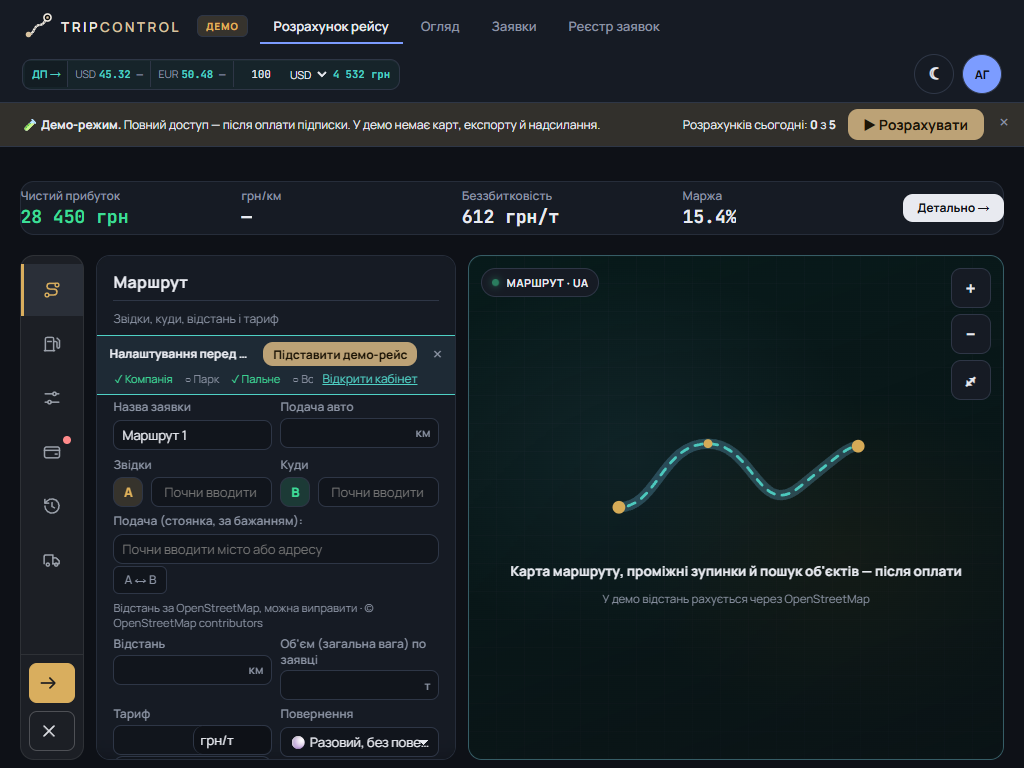
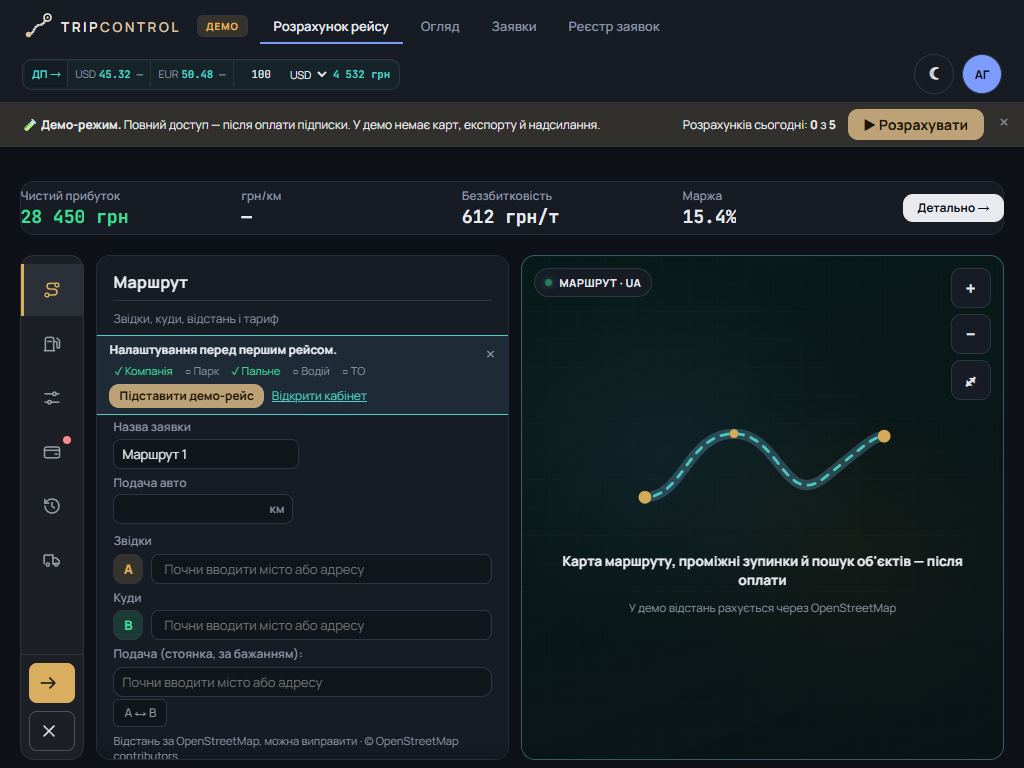
Розрахунок рейсу: гнучка панель, підсумки в 2 рядки, короткі вкладки, світла заглушка карти
Панель секції minmax(380px, 34%) до 520px (≥1100) і minmax(340px, 42%) (901–1099); Звідки/Куди/Подача на всю ширину; банер переноситься.
Підсумки меню — до 2 рядків, повний текст у title, скорочені формулювання. Мобільні вкладки: короткі підписи, fade і автоскрол.
Заглушка карти у світлій темі — світла поверхня. Застарілий тест двоколонкового лейауту оновлено, мертве CSS-правило прибрано.

diff --git a/index.html b/index.html
@@ -4062,10 +4062,9 @@
         body.layout-studio:not([data-studio-view="calc"]) #tc-kpi-bar,
         body.layout-studio[data-calc-detail="1"] #tc-kpi-bar { display: none; }
 
-        /* Дві колонки: панель minmax(380px, 40%) + мапа на решту, мапа sticky під смугою */
+        /* Колонки «Розрахунку рейсу»: ліве меню | панель | мапа sticky під смугою (ширини — у блоці «Ліве меню» нижче) */
         body.layout-studio[data-studio-view="calc"]:not([data-calc-detail="1"]) #studio-columns {
-            display: grid; grid-template-columns: minmax(380px, 40%) minmax(0, 1fr);
-            gap: clamp(12px, 1.2vw, 20px); align-items: start; padding-bottom: var(--tc-pad);
+            display: grid; gap: clamp(12px, 1.2vw, 20px); align-items: start; padding-bottom: var(--tc-pad);
         }
         body.layout-studio[data-studio-view="calc"]:not([data-calc-detail="1"]) #studio-left { min-width: 0; }
         body.layout-studio[data-studio-view="calc"]:not([data-calc-detail="1"]) #studio-right { align-self: stretch; display: block !important; min-width: 0; }
@@ -4523,7 +4522,7 @@
         body.layout-studio #tc-op .tc-acc-body { padding-top: 12px; }
 
         /* ===== Ліве меню «Розрахунку рейсу» (assets/calc-menu.js) =====
-           ≥1100px: меню 240 | панель 380 | мапа; 901–1099px: іконна рейка 64 | панель 360 | мапа; ≤900px: смуга-вкладки, панель, мапа 320px, липка нижня панель дій.
+           ≥1100px: меню 240 | панель minmax(380px, 34%) до 520px | мапа; 901–1099px: іконна рейка 64 | панель minmax(340px, 42%) | мапа; ≤900px: смуга-вкладки, панель, мапа 320px, липка нижня панель дій.
            Кольори лише з токенів тем (--sidebar-*, --surface, --negative-on-dark); поля й логіка розрахунку ті самі. */
         #tc-calc-nav { display: none; }
         body.layout-studio.tc-lm[data-studio-view="calc"]:not([data-calc-detail="1"]) #tc-calc-nav {
@@ -4543,7 +4542,7 @@
         #tc-calc-nav .tc-nav-item[aria-current="page"] .tc-nav-ico { color: var(--sidebar-accent); }
         #tc-calc-nav .tc-nav-text { flex: 1 1 auto; min-width: 0; display: flex; flex-direction: column; gap: 2px; }
         #tc-calc-nav .tc-nav-name { font-size: 13.5px; font-weight: 700; line-height: 1.25; color: inherit; overflow: hidden; text-overflow: ellipsis; white-space: nowrap; }
-        #tc-calc-nav .tc-nav-sum { font-size: 11.5px; font-weight: 500; line-height: 1.3; color: var(--sidebar-muted); overflow: hidden; text-overflow: ellipsis; white-space: nowrap; }
+        #tc-calc-nav .tc-nav-sum { font-size: 11.5px; font-weight: 500; line-height: 1.3; color: var(--sidebar-muted); overflow: hidden; display: -webkit-box; -webkit-box-orient: vertical; line-clamp: 2; -webkit-line-clamp: 2; overflow-wrap: anywhere; }
         #tc-calc-nav .tc-nav-sum:empty { display: none; }
         #tc-calc-nav .tc-nav-dot { flex: none; width: 8px; height: 8px; border-radius: 50%; background: var(--negative-on-dark); box-shadow: 0 0 0 2px var(--sidebar); }
         #tc-calc-nav .tc-nav-dot[hidden] { display: none; }
@@ -4571,6 +4570,24 @@
         body.layout-studio.tc-lm[data-theme] #tc-op .tc-acc-body { padding: 4px 16px 20px; }
         body.layout-studio.tc-lm[data-theme] #tc-op .tc-acc-row.is-miss { background: transparent; }
         body.layout-studio.tc-lm[data-theme] #tc-op .tc-vehicle-body { display: grid; gap: 10px; }
+        /* Поля адрес («Звідки / Куди», «Подача») — на всю ширину рядка, щоб підказка «Почни вводити місто або адресу» влазила повністю */
+        body.layout-studio.tc-lm[data-theme] #tc-op .tc-sg:has(> .tc-f-a) { grid-template-columns: minmax(0, 1fr); }
+        body.layout-studio.tc-lm[data-theme] #tc-op .tc-sec-body:has(.tc-f-podacha) :is(.tc-f-a, .tc-f-b, .tc-f-podacha) { grid-column: 1 / -1; }
+        body.layout-studio.tc-lm[data-theme] #tc-op .tc-addr input::placeholder { text-overflow: clip; }
+        /* Банер «Налаштування перед першим розрахунком»: текст переноситься, «Підставити демо-рейс» — під ним, якщо не влазить у рядок */
+        body.layout-studio.tc-lm[data-theme][data-studio-view="calc"] #tc-op > #onboard-banner .hint-text { display: flex; flex-wrap: wrap; align-items: center; gap: 4px 10px; }
+        body.layout-studio.tc-lm[data-theme][data-studio-view="calc"] #tc-op > #onboard-banner .hint-text > b { flex: 1 1 200px; min-width: 0; white-space: normal; overflow: visible; text-overflow: clip; }
+        body.layout-studio.tc-lm[data-theme][data-studio-view="calc"] #tc-op > #onboard-banner .hint-text > div:not(.setup-list) { display: flex !important; flex: 0 1 auto; flex-wrap: wrap; gap: 4px 10px; align-items: center; margin: 0 !important; }
+        body.layout-studio.tc-lm[data-theme][data-studio-view="calc"] #tc-op > #onboard-banner .setup-list { flex: 1 1 100%; max-width: none; flex-wrap: wrap; overflow: visible; }
+        /* Заглушка карти (демо / без карти): у світлій темі — світла поверхня з легкою сіткою, текст з контрастом AA; темна лишається як була */
+        body[data-theme="light"] .tc-map-frame .lock-ph {
+            background:
+                repeating-linear-gradient(0deg, transparent, transparent 27px, var(--border-soft) 28px),
+                repeating-linear-gradient(90deg, transparent, transparent 27px, var(--border-soft) 28px),
+                var(--surface);
+        }
+        body[data-theme="light"] .tc-map-frame .lock-ph b { color: var(--text); }
+        body[data-theme="light"] .tc-map-frame .lock-ph small { color: var(--muted); }
 
         @media (min-width: 901px) {
             body.layout-studio.tc-lm[data-theme][data-studio-view="calc"]:not([data-calc-detail="1"]) {
@@ -4578,7 +4595,7 @@
                 --lm-h: calc(100vh - var(--lm-top) - 8px);
             }
             body.layout-studio.tc-lm[data-theme][data-studio-view="calc"]:not([data-calc-detail="1"]) #studio-columns {
-                display: grid; grid-template-columns: 240px 380px minmax(0, 1fr); gap: 12px; align-items: start;
+                display: grid; grid-template-columns: 240px minmax(380px, min(34%, 520px)) minmax(0, 1fr); gap: 12px; align-items: start;
             }
             body.layout-studio.tc-lm[data-theme][data-studio-view="calc"]:not([data-calc-detail="1"]) #tc-calc-nav {
                 position: sticky; top: var(--lm-top); height: var(--lm-room, var(--lm-h)); min-height: 360px;
@@ -4591,7 +4608,7 @@
         }
         /* 901–1099px: меню — іконна рейка з підказкою (назва + підсумок) */
         @media (min-width: 901px) and (max-width: 1099px) {
-            body.layout-studio.tc-lm[data-theme][data-studio-view="calc"]:not([data-calc-detail="1"]) #studio-columns { grid-template-columns: 64px 360px minmax(0, 1fr); }
+            body.layout-studio.tc-lm[data-theme][data-studio-view="calc"]:not([data-calc-detail="1"]) #studio-columns { grid-template-columns: 64px minmax(340px, 42%) minmax(0, 1fr); }
             body.layout-studio.tc-lm[data-studio-view="calc"]:not([data-calc-detail="1"]) #tc-calc-nav { overflow: visible; }
             #tc-calc-nav .tc-nav-title { display: none; }
             #tc-calc-nav .tc-nav-list { overflow: visible; padding-top: 8px; }
@@ -4632,10 +4649,16 @@
             #tc-calc-nav .tc-nav-title, #tc-calc-nav .tc-nav-sum { display: none; }
             #tc-calc-nav .tc-nav-list { flex-direction: row; gap: 6px; padding: 8px; overflow-x: auto; overflow-y: hidden; scrollbar-width: none; -webkit-overflow-scrolling: touch; }
             #tc-calc-nav .tc-nav-list::-webkit-scrollbar { display: none; }
-            #tc-calc-nav .tc-nav-item { flex: none; width: auto; min-height: 40px; padding: 6px 12px; gap: 8px; border-radius: 999px; white-space: nowrap; }
+            #tc-calc-nav .tc-nav-list.is-scroll-r { -webkit-mask-image: linear-gradient(90deg, black calc(100% - 28px), transparent); mask-image: linear-gradient(90deg, black calc(100% - 28px), transparent); }
+            #tc-calc-nav .tc-nav-list.is-scroll-l { -webkit-mask-image: linear-gradient(90deg, transparent, black 28px); mask-image: linear-gradient(90deg, transparent, black 28px); }
+            #tc-calc-nav .tc-nav-list.is-scroll-l.is-scroll-r { -webkit-mask-image: linear-gradient(90deg, transparent, black 28px, black calc(100% - 28px), transparent); mask-image: linear-gradient(90deg, transparent, black 28px, black calc(100% - 28px), transparent); }
+            #tc-calc-nav .tc-nav-item { flex: none; width: auto; min-height: 52px; padding: 6px 10px; gap: 3px; flex-direction: column; justify-content: center; border-radius: 10px; white-space: nowrap; }
             #tc-calc-nav .tc-nav-item[aria-current="page"] { box-shadow: inset 0 -3px 0 var(--sidebar-accent); }
-            #tc-calc-nav .tc-nav-text { flex: none; }
-            #tc-calc-nav .tc-nav-name { font-size: 13px; overflow: visible; }
+            #tc-calc-nav .tc-nav-ico { width: 20px; height: 20px; }
+            #tc-calc-nav .tc-nav-text { flex: none; align-items: center; }
+            /* Короткий підпис вкладки (data-short); повна назва — в aria-label / title кнопки */
+            #tc-calc-nav .tc-nav-name { font-size: 0; line-height: 1; overflow: visible; }
+            #tc-calc-nav .tc-nav-name::before { content: attr(data-short); font-size: 12px; font-weight: 700; line-height: 1.2; }
             #tc-calc-nav .tc-nav-dot { position: absolute; top: 6px; right: 6px; }
             #tc-calc-nav .tc-nav-actions {
                 position: fixed; left: 0; right: 0; bottom: 0; z-index: 45; flex-direction: row; gap: 8px; padding: 10px 12px calc(10px + env(safe-area-inset-bottom, 0px));
@@ -7754,7 +7777,7 @@
         if (extrasOn && extrasOn.value === 'on') extraNames.push('супутні витрати');
         const trailer = opById('trailer-type');
         if (trailer && (trailer.value === 'рефрижератор' || trailer.value === 'цистерна')) extraNames.push(trailer.value);
-        opSetText('tc-acc-sum-extras', extraNames.length ? extraNames.join(', ') : 'Форма розрахунку, причіп, простій');
+        opSetText('tc-acc-sum-extras', extraNames.length ? extraNames.join(', ') : 'Форма, причіп, простій');
 
         // Пігулки на мапі
         const pills = [];

diff --git a/assets/calc-menu.js b/assets/calc-menu.js
@@ -10,12 +10,12 @@
     return '<svg viewBox="0 0 24 24" width="20" height="20" fill="none" stroke="currentColor" stroke-width="1.8" stroke-linecap="round" stroke-linejoin="round" aria-hidden="true" focusable="false">' + body + '</svg>';
   }
   var SECTIONS = [
-    { key: 'route', name: 'Маршрут', sub: 'Звідки, куди, відстань і тариф', icon: svg('<circle cx="6" cy="18" r="2.2"/><circle cx="18" cy="6" r="2.2"/><path d="M8 18h6.5a3.5 3.5 0 0 0 0-7h-5a3.5 3.5 0 0 1 0-7H16"/>') },
-    { key: 'fuel', name: 'Пальне', sub: 'Сезон, ціна, норми витрати, AdBlue', icon: svg('<path d="M4 20V6a2 2 0 0 1 2-2h6a2 2 0 0 1 2 2v14"/><path d="M3 20h12"/><path d="M14 9h2.5a1.5 1.5 0 0 1 1.5 1.5v5a1.5 1.5 0 0 0 3 0V8l-3-3"/><path d="M7 9h4"/>') },
-    { key: 'extras', name: 'Додаткові параметри', sub: 'Форма розрахунку, причіп, простій', icon: svg('<path d="M4 7h9"/><path d="M17 7h3"/><circle cx="15" cy="7" r="2"/><path d="M4 17h3"/><path d="M11 17h9"/><circle cx="9" cy="17" r="2"/>') },
-    { key: 'costs', name: 'Витрати', sub: 'Водій, ТО, шини, накладні', icon: svg('<rect x="3" y="6" width="18" height="13" rx="2.5"/><path d="M3 10h18"/><path d="M16 14.5h2"/>') },
-    { key: 'recent', name: 'Останні маршрути', sub: 'Підставити маршрут із історії', icon: svg('<path d="M3.5 12a8.5 8.5 0 1 0 2.6-6.1L3.5 8.5"/><path d="M3.5 4v4.5H8"/><path d="M12 8v4.5l3 1.8"/>') },
-    { key: 'vehicle', name: 'ТЗ', sub: 'Авто з картки: норми й маса', icon: svg('<path d="M2.5 16.5V7.5a1.5 1.5 0 0 1 1.5-1.5h9v10.5"/><path d="M13 9.5h4l3.5 3.5v3.5H13"/><circle cx="7" cy="17.5" r="1.8"/><circle cx="17" cy="17.5" r="1.8"/>') }
+    { key: 'route', short: 'Маршрут', name: 'Маршрут', sub: 'Звідки, куди, відстань і тариф', icon: svg('<circle cx="6" cy="18" r="2.2"/><circle cx="18" cy="6" r="2.2"/><path d="M8 18h6.5a3.5 3.5 0 0 0 0-7h-5a3.5 3.5 0 0 1 0-7H16"/>') },
+    { key: 'fuel', short: 'Пальне', name: 'Пальне', sub: 'Сезон, ціна, норми витрати, AdBlue', icon: svg('<path d="M4 20V6a2 2 0 0 1 2-2h6a2 2 0 0 1 2 2v14"/><path d="M3 20h12"/><path d="M14 9h2.5a1.5 1.5 0 0 1 1.5 1.5v5a1.5 1.5 0 0 0 3 0V8l-3-3"/><path d="M7 9h4"/>') },
+    { key: 'extras', short: 'Параметри', name: 'Додаткові параметри', sub: 'Форма розрахунку, причіп, простій', icon: svg('<path d="M4 7h9"/><path d="M17 7h3"/><circle cx="15" cy="7" r="2"/><path d="M4 17h3"/><path d="M11 17h9"/><circle cx="9" cy="17" r="2"/>') },
+    { key: 'costs', short: 'Витрати', name: 'Витрати', sub: 'Водій, ТО, шини, накладні', icon: svg('<rect x="3" y="6" width="18" height="13" rx="2.5"/><path d="M3 10h18"/><path d="M16 14.5h2"/>') },
+    { key: 'recent', short: 'Останні', name: 'Останні маршрути', sub: 'Підставити маршрут із історії', icon: svg('<path d="M3.5 12a8.5 8.5 0 1 0 2.6-6.1L3.5 8.5"/><path d="M3.5 4v4.5H8"/><path d="M12 8v4.5l3 1.8"/>') },
+    { key: 'vehicle', short: 'ТЗ', name: 'ТЗ', sub: 'Авто з картки: норми й маса', icon: svg('<path d="M2.5 16.5V7.5a1.5 1.5 0 0 1 1.5-1.5h9v10.5"/><path d="M13 9.5h4l3.5 3.5v3.5H13"/><circle cx="7" cy="17.5" r="1.8"/><circle cx="17" cy="17.5" r="1.8"/>') }
   ];
 
   function keys() { return SECTIONS.map(function (s) { return s.key; }); }
@@ -63,7 +63,7 @@
     return list.length === 1 ? list[0] : list.length + ' авто';
   }
   function costsSummary(total, missing) {
-    if (missing && missing.length) return 'Не заповнено: ' + missing.join(', ');
+    if (missing && missing.length) return 'Немає ' + missing.join(', ');
     var n = Number(total);
     return n > 0 ? 'з витратної частини · ' + new Intl.NumberFormat('uk-UA', { maximumFractionDigits: 0 }).format(Math.round(n)).replace(/ /g, ' ') + ' грн' : 'з витратної частини компанії';
   }
@@ -104,7 +104,11 @@
         + '<span class="tc-nav-text"><b class="tc-nav-name"></b><small class="tc-nav-sum"></small></span>'
         + '<i class="tc-nav-dot" hidden><span class="visually-hidden">Є незаповнені поля</span></i>'
         + '<span class="tc-nav-tip" role="tooltip"><b></b><small></small></span>';
-      btn.querySelector('.tc-nav-name').textContent = sec.name;
+      var nameEl = btn.querySelector('.tc-nav-name');
+      nameEl.textContent = sec.name;
+      nameEl.setAttribute('data-short', sec.short || sec.name);
+      btn.setAttribute('aria-label', sec.name);
+      btn.title = sec.name;
       btn.querySelector('.tc-nav-tip b').textContent = sec.name;
       btn.addEventListener('click', function () { api.select(sec.key); });
       list.appendChild(btn);
@@ -121,6 +125,21 @@
       if (items[next]) items[next].focus();
     });
 
+    // ≤900px пункти — горизонтальна смуга: класи is-scroll-l/r вмикають fade по краях, активна вкладка підкручується в зону видимості.
+    function updateFade() {
+      var max = list.scrollWidth - list.clientWidth;
+      list.classList.toggle('is-scroll-l', max > 1 && list.scrollLeft > 1);
+      list.classList.toggle('is-scroll-r', max > 1 && list.scrollLeft < max - 1);
+    }
+    function revealActive(item) {
+      if (!item || list.scrollWidth <= list.clientWidth) { updateFade(); return; }
+      var left = item.offsetLeft - (list.clientWidth - item.offsetWidth) / 2;
+      list.scrollLeft = Math.max(0, left);
+      updateFade();
+    }
+    list.addEventListener('scroll', updateFade);
+    if (doc.defaultView && doc.defaultView.addEventListener) doc.defaultView.addEventListener('resize', updateFade);
+
     var active = null;
     var api = {
       nav: nav,
@@ -135,6 +154,7 @@
           else items[k].removeAttribute('aria-current');
         });
         active = next;
+        revealActive(items[next]);
         if (!silent) writeKey(opts.storage, next);
         if (opts.onSelect) opts.onSelect(next, sectionMeta(next));
       },
@@ -146,6 +166,11 @@
           if (sum.textContent !== text) sum.textContent = text;
           var tip = item.querySelector('.tc-nav-tip small');
           if (tip.textContent !== text) tip.textContent = text;
+          sum.title = text;
+          var bad0 = !!(opts.hasError && opts.hasError(k));
+          var sec0 = sectionMeta(k);
+          item.title = sec0.name + (text ? ' — ' + text : '');
+          item.setAttribute('aria-label', sec0.name + (text ? ': ' + text : '') + (bad0 ? '. Є незаповнені поля' : ''));
           var bad = !!(opts.hasError && opts.hasError(k));
           item.classList.toggle('has-error', bad);
           item.querySelector('.tc-nav-dot').hidden = !bad;
